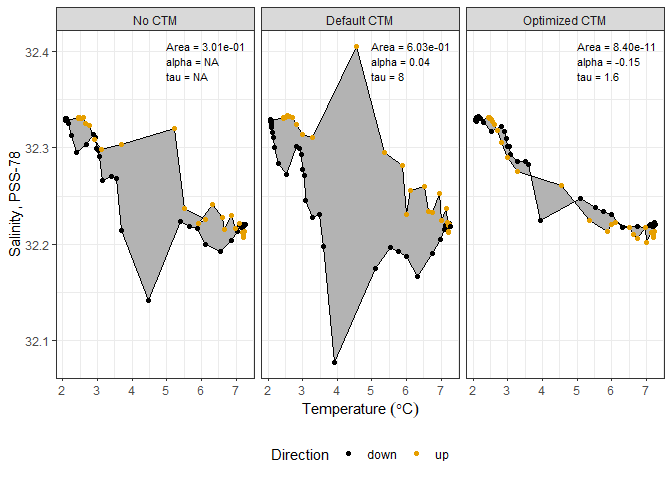
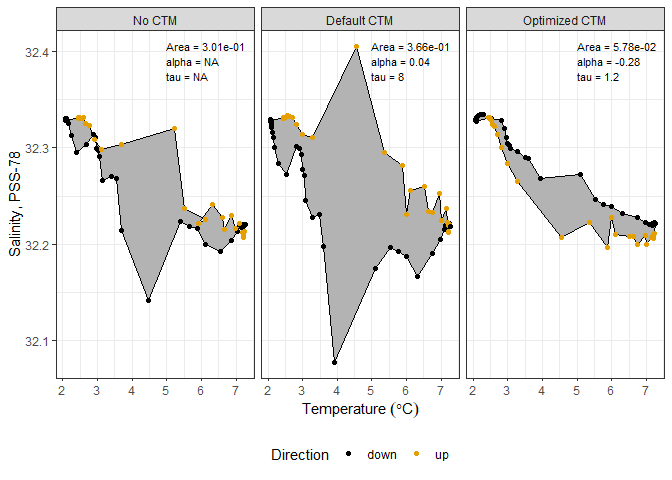
Fix area calculation method to avoid overlapping vertices

Changed region(s): [[0.7188, 0.2188, 0.9688, 0.5312], [0.9062, 0.0938, 0.9688, 0.1562], [0.5938, 0.0938, 0.625, 0.125]]

diff --git a/doc/estimating_ctm.md b/doc/estimating_ctm.md
@@ -95,26 +95,31 @@ maximum Newton steps = 500.
 
 ``` r
 optim_results <- bbmle::mle2(minuslogl = gapctd:::ctm_adjust_tsarea,
-                start = list(alpha = 0.04,
-                             tau = 8),
-                data = list(down_temperature = align_down_oce@data$temperature[align_down_oce@data$pressure > 4],
-                            down_pressure = align_down_oce@data$pressure[align_down_oce@data$pressure > 4],
-                            down_conductivity = align_down_oce@data$conductivity[align_down_oce@data$pressure > 4],
-                            down_flag = align_down_oce@data$flag[align_down_oce@data$pressure > 4],
-                            up_temperature = align_up_oce@data$temperature[align_up_oce@data$pressure > 4],
-                            up_pressure = align_up_oce@data$pressure[align_up_oce@data$pressure > 4],
-                            up_conductivity = align_up_oce@data$conductivity[align_up_oce@data$pressure > 4],
-                            up_flag = align_up_oce@data$flag[align_up_oce@data$pressure > 4],
-                            obj_fn = "area",
-                            f_n = 0.25),
-                method = "BFGS",
-                control = list(maxit = 500, reltol = 1e-5, trace = 6,
-                               parscale = c(alpha = 0.01, tau = 1)))
+                             start = list(alpha = 0.04,
+                                          tau = 8),
+                             data = list(down_temperature = align_down_oce@data$temperature[align_down_oce@data$pressure > 4],
+                                         down_pressure = align_down_oce@data$pressure[align_down_oce@data$pressure > 4],
+                                         down_conductivity = align_down_oce@data$conductivity[align_down_oce@data$pressure > 4],
+                                         down_flag = align_down_oce@data$flag[align_down_oce@data$pressure > 4],
+                                         up_temperature = align_up_oce@data$temperature[align_up_oce@data$pressure > 4],
+                                         up_pressure = align_up_oce@data$pressure[align_up_oce@data$pressure > 4],
+                                         up_conductivity = align_up_oce@data$conductivity[align_up_oce@data$pressure > 4],
+                                         up_flag = align_up_oce@data$flag[align_up_oce@data$pressure > 4],
+                                         obj_fn = "area",
+                                         f_n = 0.25),
+                             method = "L-BFGS-B",
+                             lower = c(alpha = -10, tau = 0),
+                             upper = c(alpha = 10, tau = 45),
+                             control = list(maxit = 500, reltol = 1e-5, trace = 1))
 ```
 
-    ## initial  value 0.603432 
-    ## iter  10 value 0.000011
-    ## final  value 0.000000 
+    ## Warning in optim(par = c(alpha = 0.04, tau = 8), fn = function (p) : method L-
+    ## BFGS-B uses 'factr' (and 'pgtol') instead of 'reltol' and 'abstol'
+
+    ## iter   10 value 0.113029
+    ## iter   20 value 0.111565
+    ## iter   30 value 0.059414
+    ## final  value 0.057839 
     ## converged
 
 ``` r
@@ -122,9 +127,9 @@ optim_results@coef
 ```
 
     ##      alpha        tau 
-    ## -0.1470365  1.5910973
+    ## -0.2847695  1.2091625
 
-The algorithm converges and estimated parameters (α = -0.147, τ = 1.591)
+The algorithm converges and estimated parameters (α = -0.285, τ = 1.209)
 differ from the ‘typical’ starting values, which suggests the
 alternative parameters should be used. The package tries a few other
 starting values if the optimization does not converge and uses the
@@ -187,10 +192,10 @@ ts_area_df <- data.frame(ctm = c("No CTM", "Default CTM", "Optimized CTM"),
 ts_area_df
 ```
 
-    ##             ctm         area      alpha      tau
-    ## 1        No CTM 3.009144e-01         NA       NA
-    ## 2   Default CTM 6.034317e-01  0.0400000 8.000000
-    ## 3 Optimized CTM 8.401219e-11 -0.1470365 1.591097
+    ##             ctm       area      alpha      tau
+    ## 1        No CTM 0.30091436         NA       NA
+    ## 2   Default CTM 0.36575860  0.0400000 8.000000
+    ## 3 Optimized CTM 0.05783882 -0.2847695 1.209162
 
 Optimized CTM has a substantially smaller area between T-S curves than
 both No CTM and Default CTM. Meanwhile, corrections using the the
